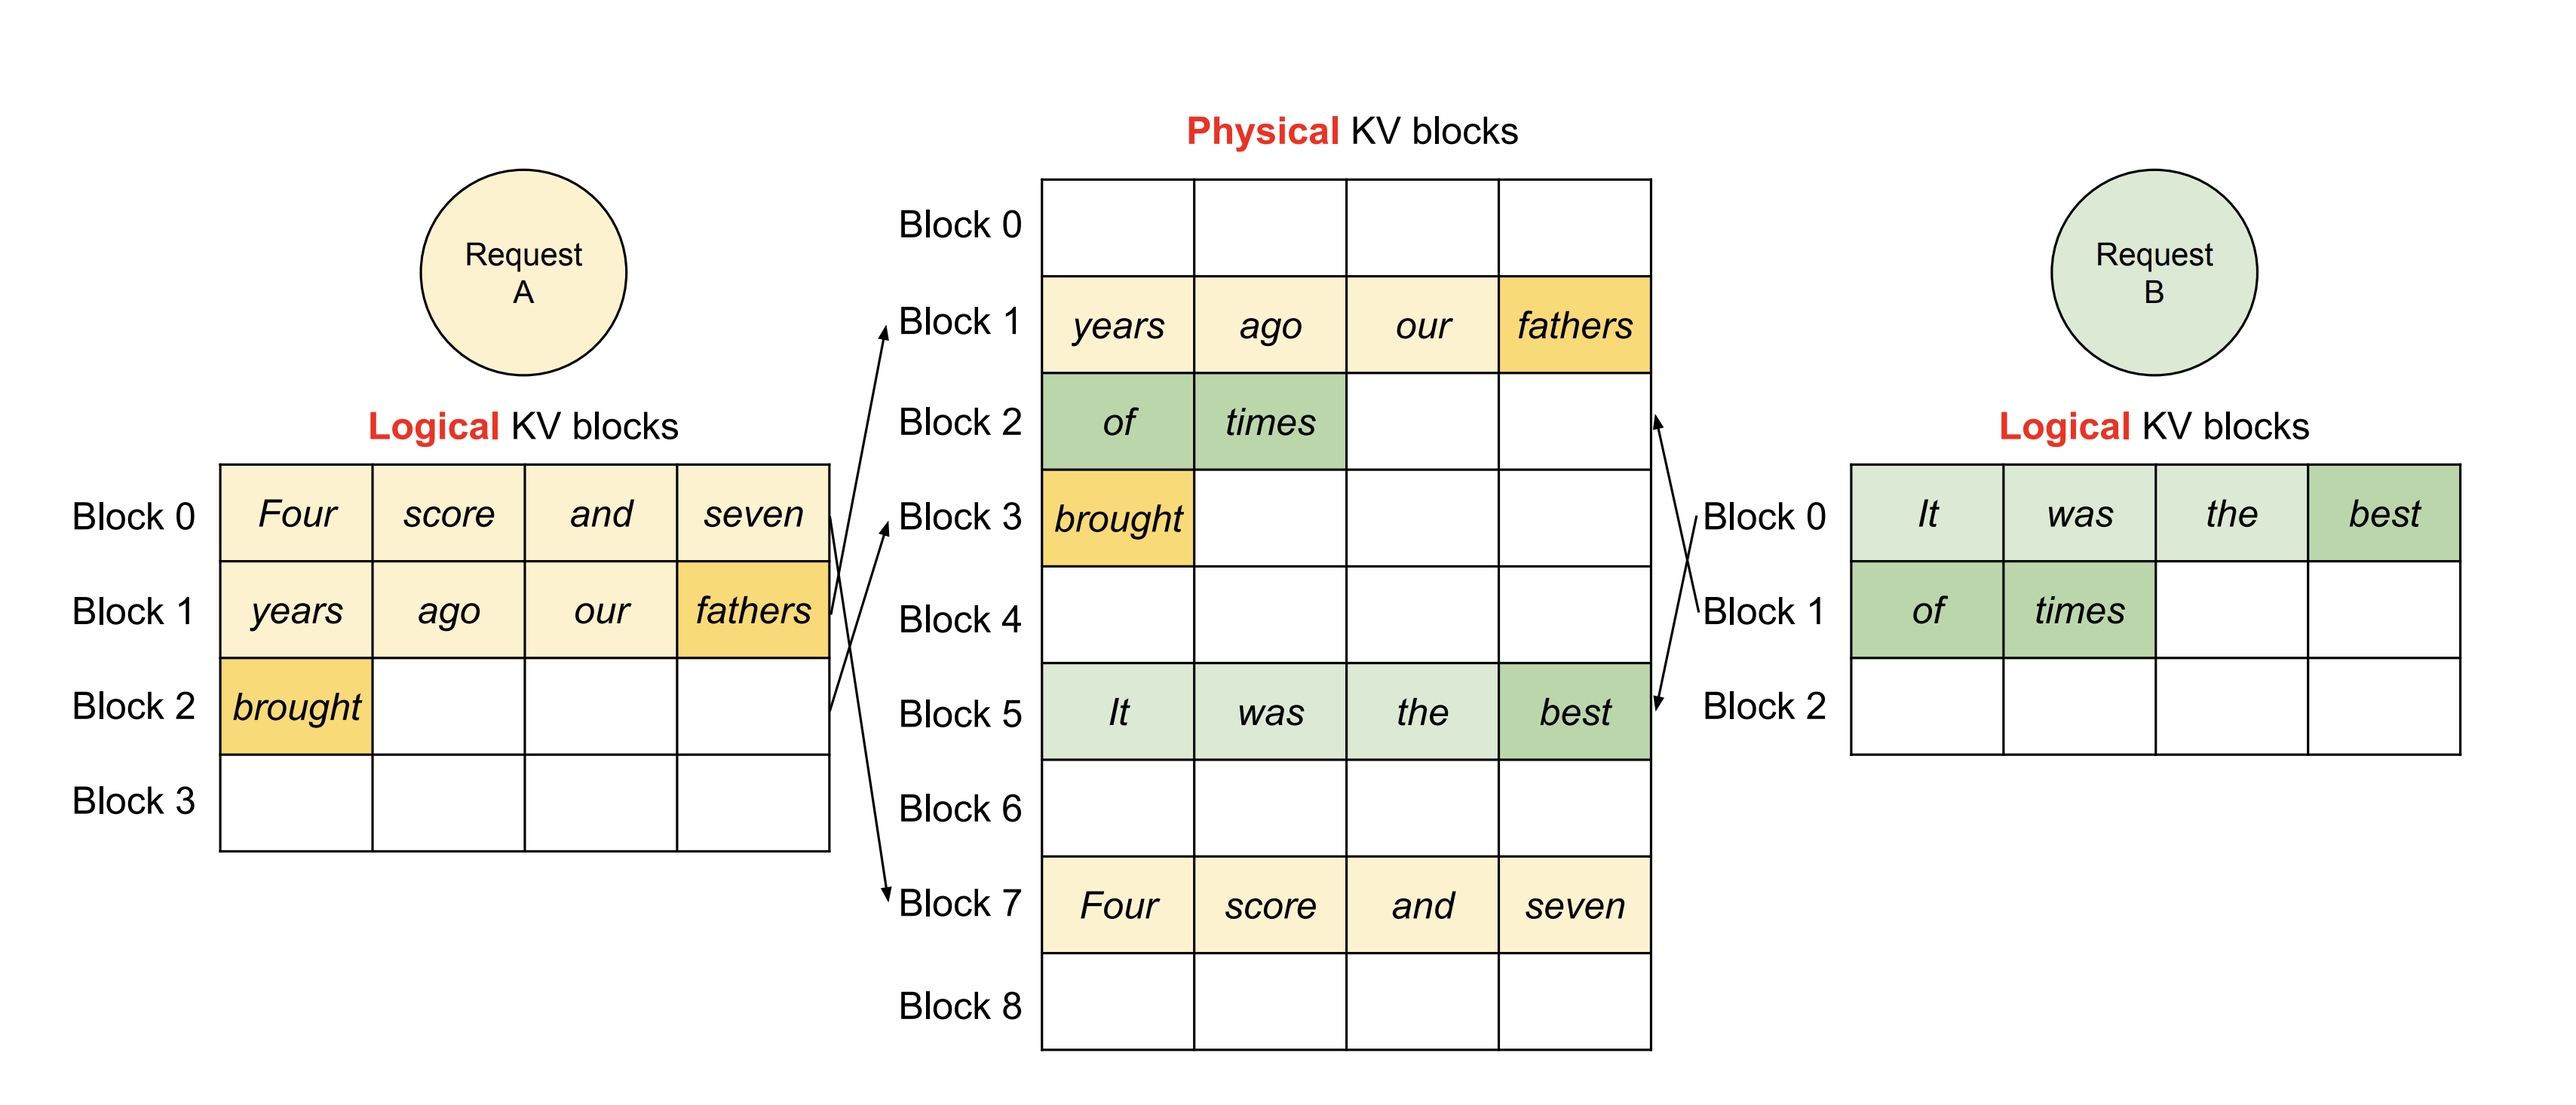
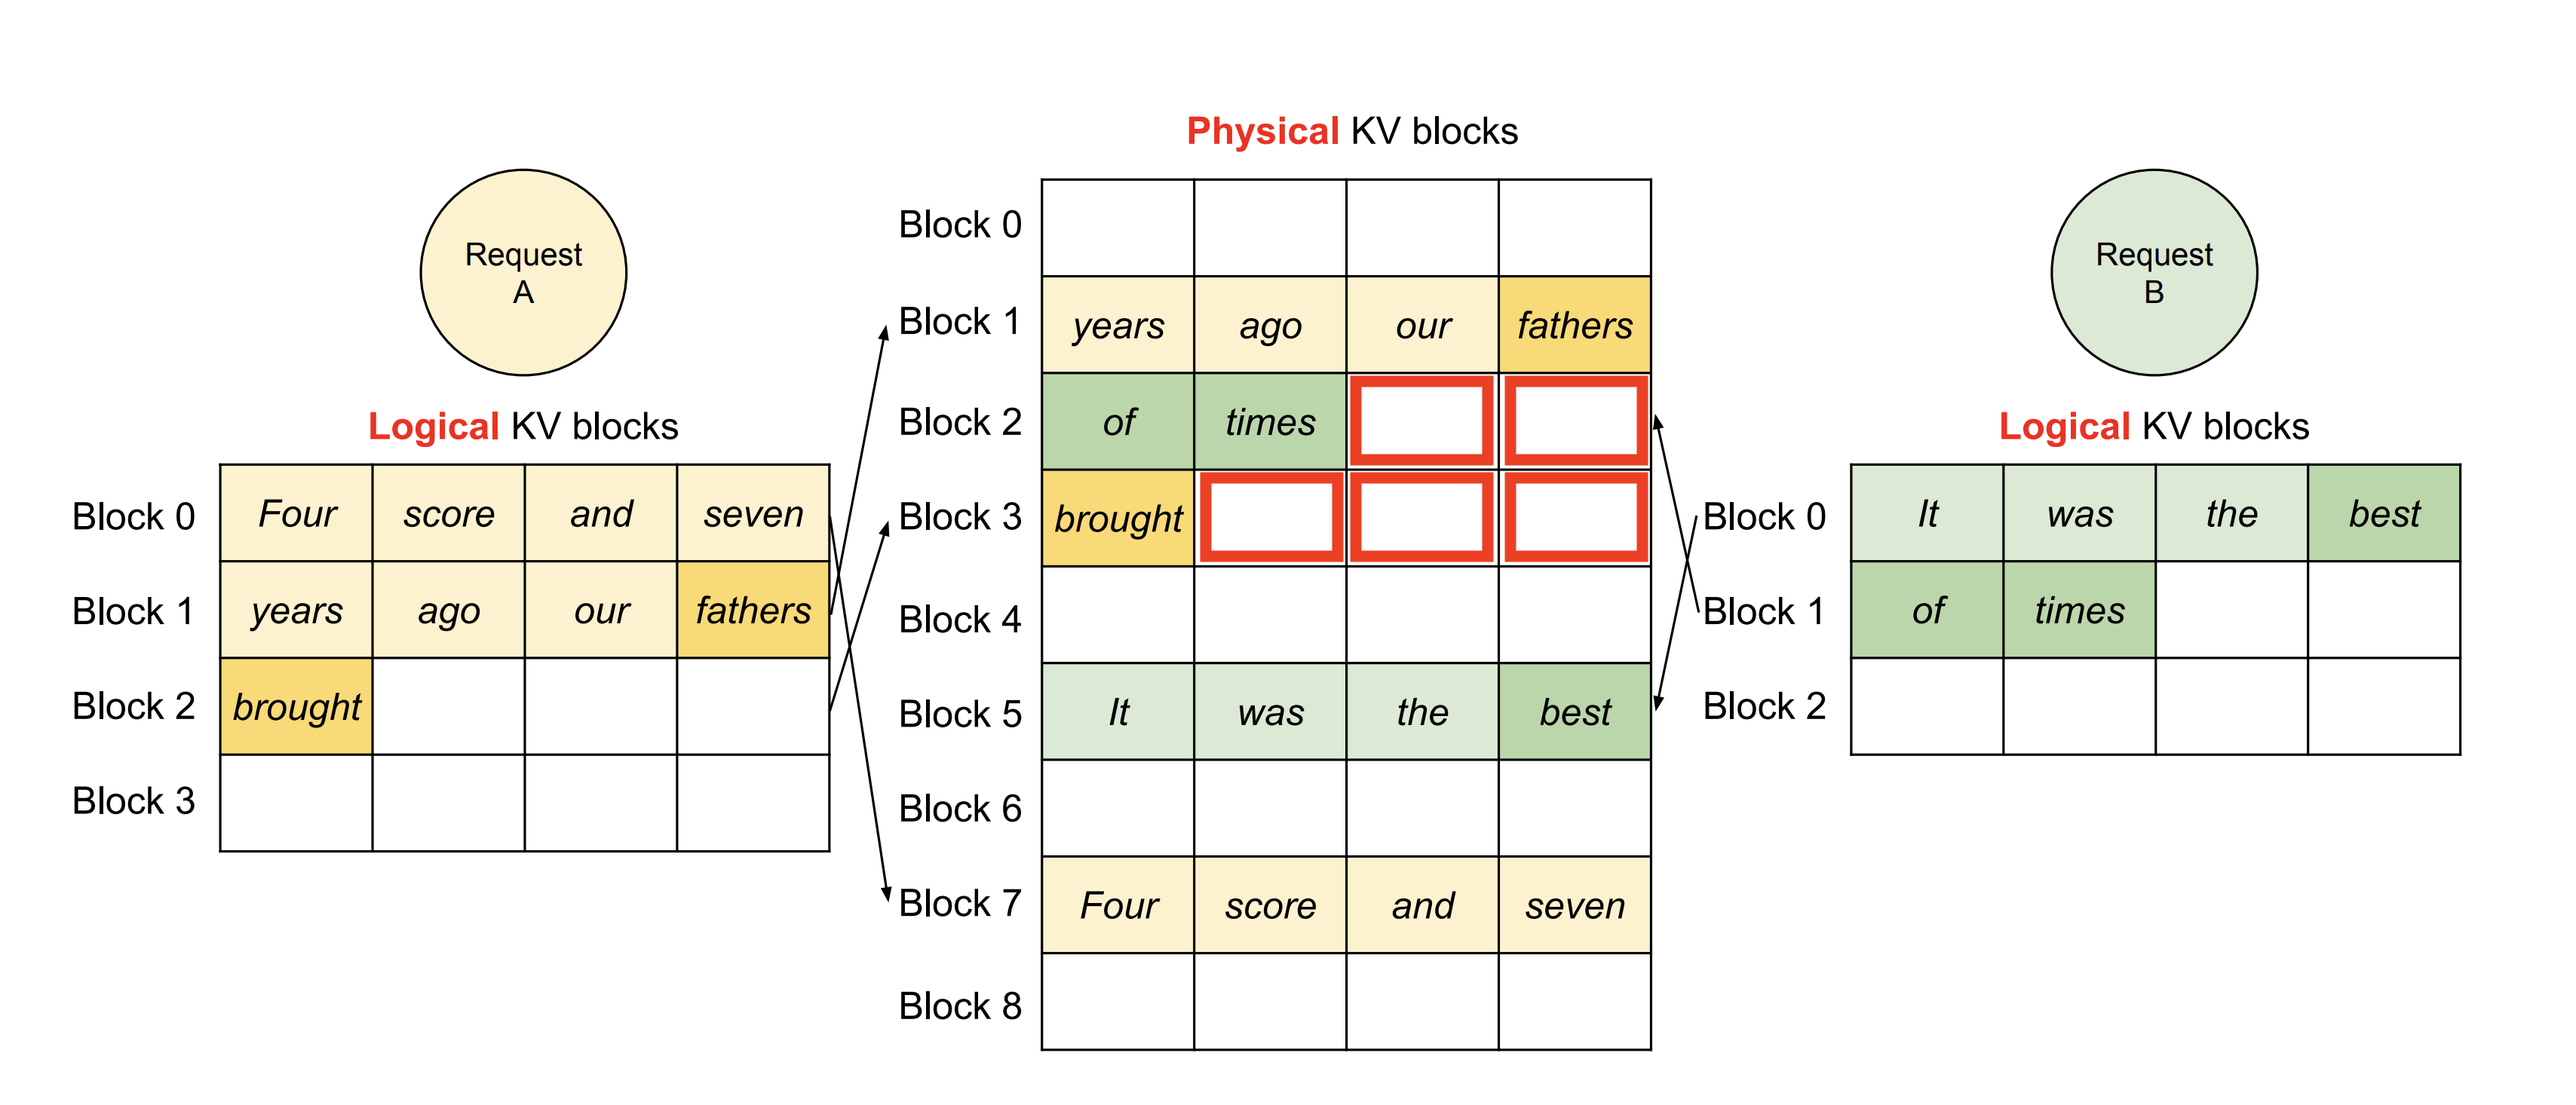
almost!

Changed region(s): [[0.4655, 0.3377, 0.6516, 0.5218]]

diff --git a/README.md b/README.md
@@ -11,13 +11,13 @@ To be clear, this is not a from-scratch implementation of PagedAttention. We'll 
 PagedAttention kernel, but write our own KV cache manager as 
 Tri Dao [suggests](https://github.com/Dao-AILab/flash-attention/issues/660):
 
-![image info](assets/the-primer.png)
+![the-primer](assets/the-primer.png)
 
 ## Prereqs
 
 ### Llama3 Weights
 
-We'll use Llama3-8B-Instruct, so [download](https://github.com/meta-llama/llama3?tab=readme-ov-file#download)
+[Download](https://github.com/meta-llama/llama3?tab=readme-ov-file#download)
 the pretrained weights. Here's one way using the command line, after you `pip install huggingface-hub`:
 
 ```bash
@@ -51,10 +51,10 @@ $ python llama3-naive.py 7
 --------------------------------------------------
 Fragmented Memory: 7.23 GB (28.46%)
 ```
-Note how **~30% of the entire GPU memory becomes fragmented and unusabl**e. 
-Let's see how using paged-attention improves this.
+Note how **~30% of the entire GPU memory becomes fragmented and unusable.**
+Let's see how using PagedAttention improves this.
 
-### Paged-Attention
+### PagedAttention
 
 With paged-attention, we allocate memory only when we need to when generating tokens. 
 **This decreases fragmentation to <1%, and increases maximum batch size by 7X for me:**
@@ -75,7 +75,37 @@ The benefit of paged attention will be apparent on any GPU device.
 
 ### PagedAttention
 
-### KV Cache Manager
+Traditionally, a request's KV cache is 1) stored in contiguous memory space, and 2) pre-allocated with the maximum 
+context length (8192 for Llama3). This results in severe internal memory fragmentation e.g. if a request's actual length
+was generated to be 792 tokens, ~90% (=7400/8192) of the pre-allocated memory is fragmented i.e. unable to be used by 
+any other requests. 
+
+To reduce memory fragmentation and increase request throughput (batch size), PagedAttention offers a non-contiguous 
+KV cache memory management scheme, loosely following [OS paging](https://en.wikipedia.org/wiki/Memory_paging). 
+This ensures that memory fragmentation only occurs at the last assigned block per request: in the diagram below, shaded 
+in red, 3 tokens in Physical Block 3 for request A, and 2 tokens in Physical Block 2 for request B.
+
+![paged-attention](/assets/pagedattention.png)
+
+I highly recommend reading through section 4.3 of the [paper](https://arxiv.org/pdf/2309.0618) for a more detailed
+explanation.
+
+I also found it helpful to think about it in code. Instead of this:
+```python
+y = attn(k_cache=k_cache, v_cache=v_cache, ...)
+```
+PagedAttention does this:
+```python
+y = paged_attn(k_cache=k_cache_paged, v_cache=v_cache_paged, block_table=block_table, ...)
+```
+Unlike `k_cache`, `k_cache_paged` is non-contiguous, and is shared by all requests. Physical blocks 0~8 can be 
+assigned to any request, and this is why we pass in `block_table`, which contains the per-request assignments of the 
+logical blocks to physical blocks e.g. in the diagram above, `block_table` will look something like 
+`{0: [7,1,3], 1: [5,2]}` (0,1 being the indices for request A and B, respectively)
+
+So who makes these assignments?
+
+### KV cache manager
 
 ## Acknowledgements
 
